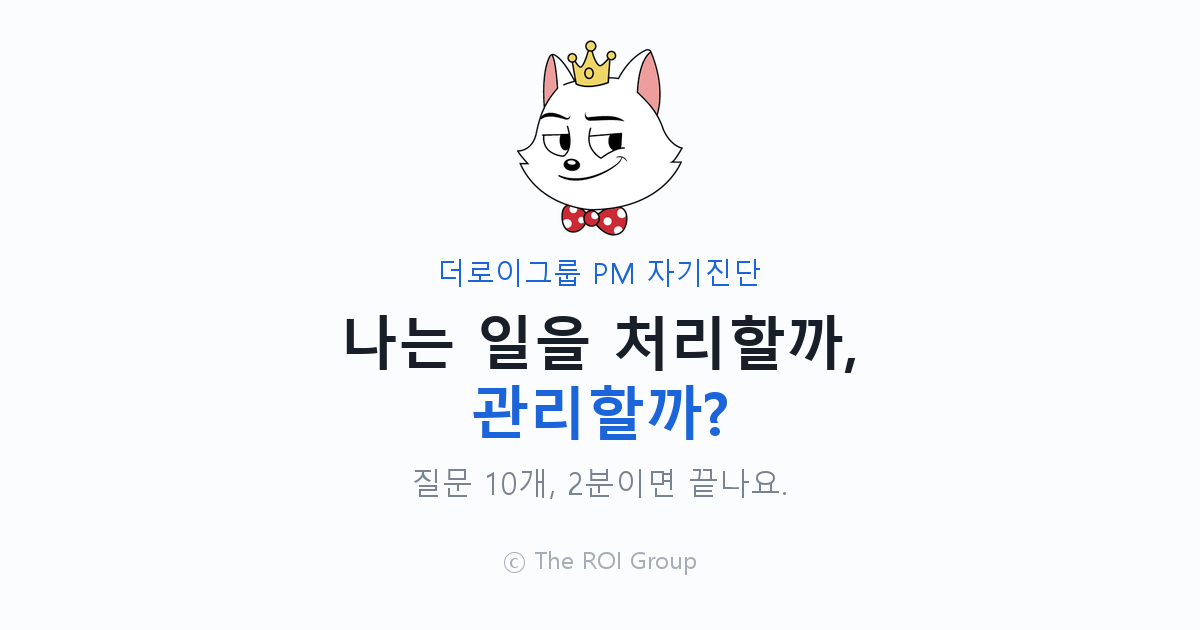
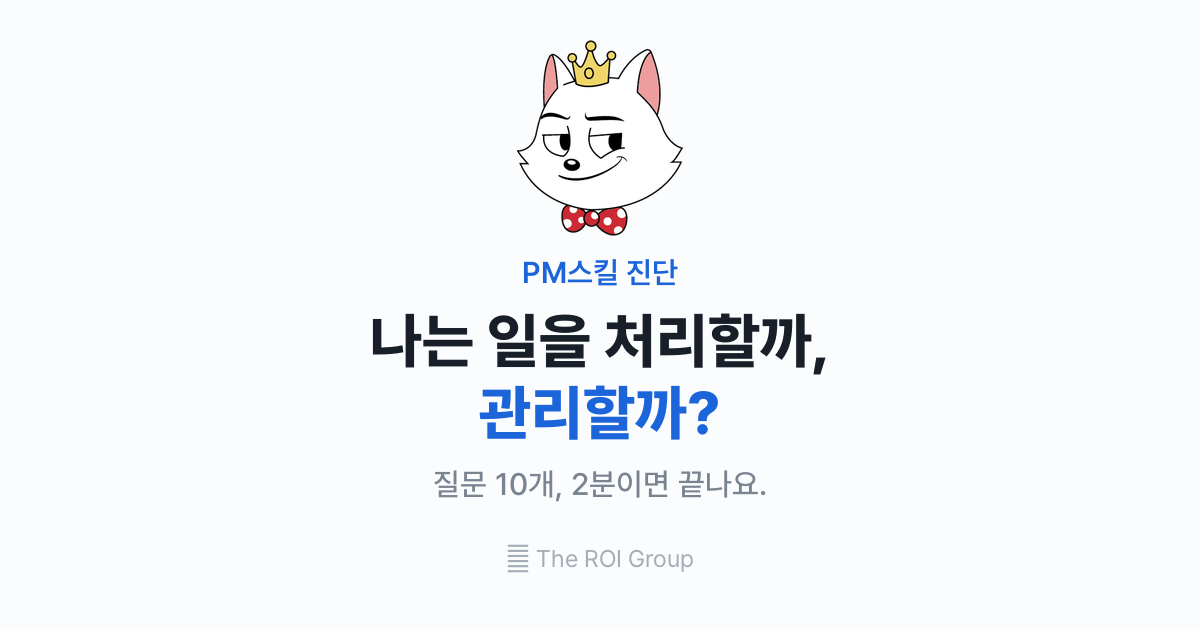
색조 통일: 주황(경고색) 제거→블루+뉴트럴. 결과유형 블루-슬레이트→블루→그린 상승 스케일

diff --git a/index.html b/index.html
@@ -160,15 +160,15 @@
   .bar-row { display: grid; grid-template-columns: 92px 1fr 30px; align-items: center; gap: 12px; }
   .bar-row .bn { font-size: 13.5px; font-weight: 600; color: var(--ink-soft); }
   .bar-track { height: 8px; background: var(--line); border-radius: 5px; overflow: hidden; }
-  .bar-track b { display: block; height: 100%; background: var(--blue); border-radius: 5px; width: 0; transition: width .6s cubic-bezier(.2,.7,.3,1); }
-  .bar-row.low .bn { color: var(--warn); font-weight: 700; }
-  .bar-row.low .bar-track b { background: var(--warn); }
+  .bar-track b { display: block; height: 100%; background: #B7CCEC; border-radius: 5px; width: 0; transition: width .6s cubic-bezier(.2,.7,.3,1); }
+  .bar-row.low .bn { color: var(--blue-deep); font-weight: 700; }
+  .bar-row.low .bar-track b { background: var(--blue); }
   .bar-row .bv { font-size: 13px; font-weight: 700; color: var(--ink-faint); text-align: right; font-variant-numeric: tabular-nums; }
 
   /* weak cards */
   .weak-list { display: flex; flex-direction: column; gap: 12px; margin-top: 4px; }
-  .weak-card { background: #FFF7F0; border: 1.5px solid #FFE1CC; border-radius: 18px; padding: 20px; }
-  .weak-card .wl { font-size: 12.5px; font-weight: 700; color: var(--warn); }
+  .weak-card { background: var(--tint); border: 1.5px solid var(--tint-deep); border-radius: 18px; padding: 20px; }
+  .weak-card .wl { font-size: 12.5px; font-weight: 700; color: var(--blue); }
   .weak-card .wn { font-size: 19px; font-weight: 800; color: var(--ink); margin-top: 4px; }
   .weak-card .ww { font-size: 14px; color: var(--ink-soft); margin-top: 8px; font-weight: 500; line-height: 1.55; }
 
@@ -218,10 +218,10 @@
   .share-cap { font-size: 13px; color: var(--ink-faint); font-weight: 600; text-align: center; margin: 4px 0 -2px; }
 
   /* 인앱 브라우저 안내 */
-  .notice { display: flex; gap: 9px; align-items: flex-start; background: #FFF7ED; border: 1px solid #FFE0C2; border-radius: 12px; padding: 11px 13px; margin-bottom: 4px; }
+  .notice { display: flex; gap: 9px; align-items: flex-start; background: var(--tint); border: 1px solid var(--tint-deep); border-radius: 12px; padding: 11px 13px; margin-bottom: 4px; }
   .notice .ic { flex: 0 0 auto; margin-top: 1px; }
-  .notice .tx { font-size: 12.5px; color: #925A17; font-weight: 600; line-height: 1.55; }
-  .notice .tx b { color: #B4560E; }
+  .notice .tx { font-size: 12.5px; color: var(--ink-soft); font-weight: 600; line-height: 1.55; }
+  .notice .tx b { color: var(--blue-deep); }
   .notice-link { display: inline; color: var(--blue-deep); font-weight: 800; text-decoration: underline; cursor: pointer; }
 
   /* saveable result card (30일 화면) */
@@ -300,8 +300,8 @@
   ];
 
   var BANDS = [
-    { min: 0,  max: 39,  name: "반응형 실무자",     color: "#F04452", desc: "일이 생기면 처리하지만, 먼저 구조화하고 관리하는 힘은 아직 약한 상태예요." },
-    { min: 40, max: 59,  name: "기본 관리 단계",     color: "#F09000", desc: "일정과 업무는 챙기지만, 범위·품질·리스크 판단은 훈련이 필요한 상태예요." },
+    { min: 0,  max: 39,  name: "반응형 실무자",     color: "#6B84A8", desc: "일이 생기면 처리하지만, 먼저 구조화하고 관리하는 힘은 아직 약한 상태예요." },
+    { min: 40, max: 59,  name: "기본 관리 단계",     color: "#5B8DEF", desc: "일정과 업무는 챙기지만, 범위·품질·리스크 판단은 훈련이 필요한 상태예요." },
     { min: 60, max: 79,  name: "안정적 PM",         color: "#3182F6", desc: "프로젝트를 비교적 안정적으로 운영할 수 있는 상태예요." },
     { min: 80, max: 100, name: "프로젝트 리더 후보", color: "#17A366", desc: "단순 업무 관리를 넘어 결과와 고객 신뢰까지 볼 수 있는 상태예요." }
   ];
@@ -654,7 +654,7 @@
     var ia = inAppInfo();
     var notice = ia ?
       '<div class="notice">' +
-        '<svg class="ic" width="16" height="16" viewBox="0 0 24 24" fill="none"><path d="M12 8.5v4.5m0 3h.01M10.3 3.9 1.8 18a2 2 0 0 0 1.7 3h16.9a2 2 0 0 0 1.7-3L13.7 3.9a2 2 0 0 0-3.4 0Z" stroke="#B4560E" stroke-width="2" stroke-linecap="round" stroke-linejoin="round"/></svg>' +
+        '<svg class="ic" width="16" height="16" viewBox="0 0 24 24" fill="none"><path d="M12 8.5v4.5m0 3h.01M10.3 3.9 1.8 18a2 2 0 0 0 1.7 3h16.9a2 2 0 0 0 1.7-3L13.7 3.9a2 2 0 0 0-3.4 0Z" stroke="#1B64DA" stroke-width="2" stroke-linecap="round" stroke-linejoin="round"/></svg>' +
         '<span class="tx">지금 <b>' + ia.name + '</b> 안에서 열려 있어 이미지 저장이 막힐 수 있어요. ' +
           (ia.kakao ? '<span class="notice-link" id="extOpen">다른 브라우저로 열기</span> 후 저장하세요.'
                     : '우측 상단 메뉴에서 <b>다른 브라우저로 열기</b> 후 저장하세요.') +
@@ -915,7 +915,7 @@
 
   // ---------- utils ----------
   function hexTint(hex) {
-    var c = { "#F04452":"#FDECEE", "#F09000":"#FDF1E0", "#3182F6":"#EDF4FF", "#17A366":"#E6F6EE" };
+    var c = { "#6B84A8":"#EDF1F7", "#5B8DEF":"#EAF1FE", "#3182F6":"#EDF4FF", "#17A366":"#E6F6EE" };
     return c[hex] || "#EDF4FF";
   }
 